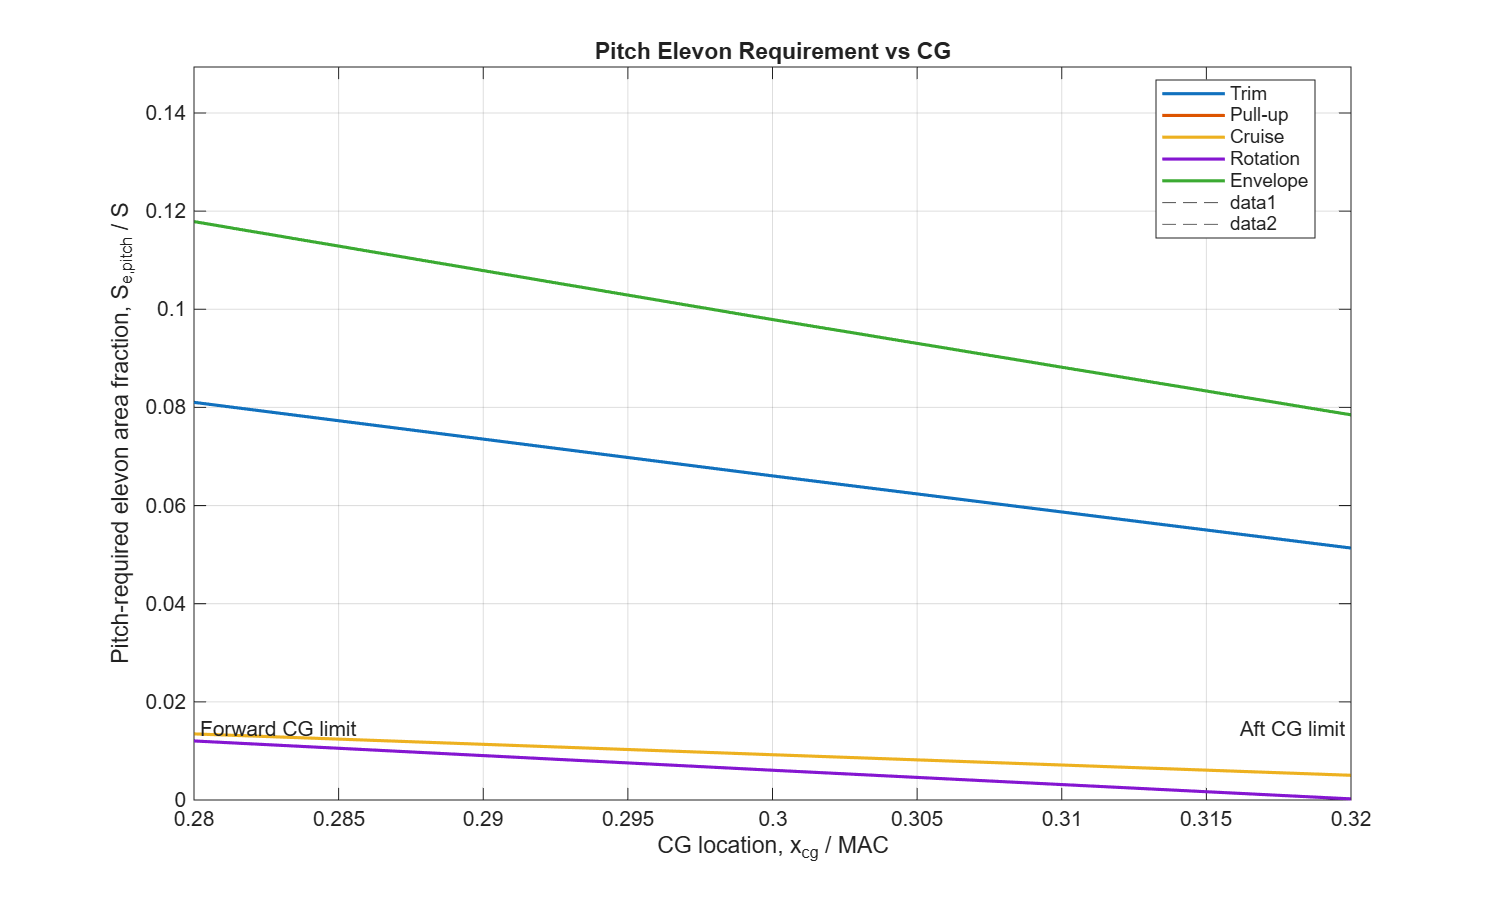
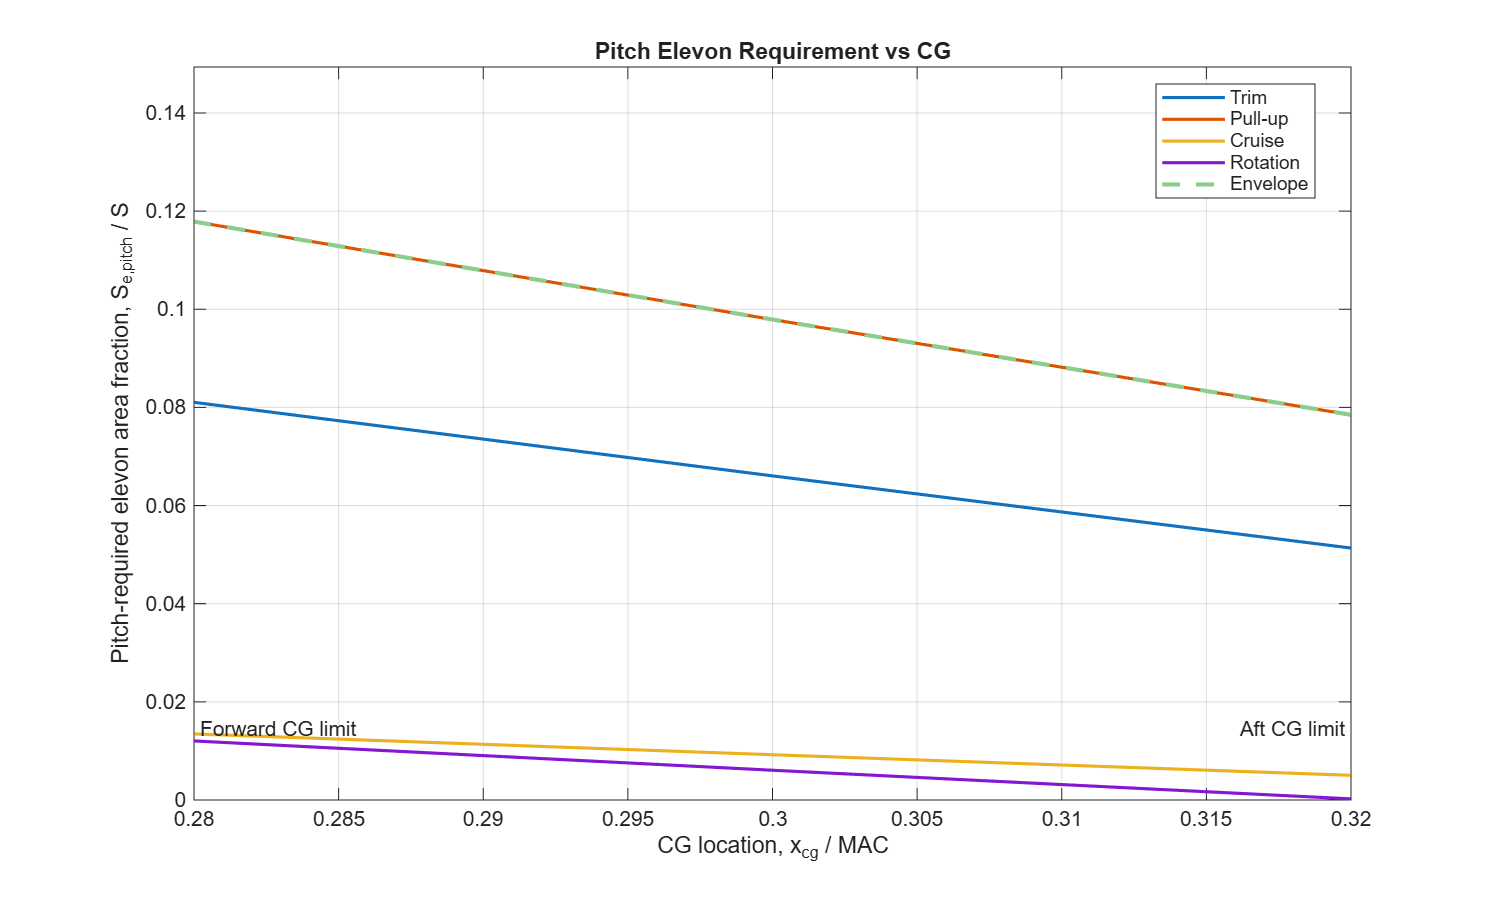
Clarify CG sweep envelope plot

diff --git a/+DynamicsPkg/BWB_Dynamics_Demo.m b/+DynamicsPkg/BWB_Dynamics_Demo.m
@@ -244,8 +244,10 @@ end
 figure;
 if RunCgSweep
     plot(CgSweep.XcgMAC, [CgSweep.PitchCaseSweep.Trim, CgSweep.PitchCaseSweep.Pullup, ...
-        CgSweep.PitchCaseSweep.Cruise, CgSweep.PitchCaseSweep.Rotation, ...
-        CgSweep.PitchCaseSweep.MaxAreaFraction], "LineWidth", 1.5);
+        CgSweep.PitchCaseSweep.Cruise, CgSweep.PitchCaseSweep.Rotation], "LineWidth", 1.5);
+    hold on
+    plot(CgSweep.XcgMAC, CgSweep.PitchCaseSweep.MaxAreaFraction, "--", ...
+        "Color", [0.55, 0.80, 0.55], "LineWidth", 2.0);
     legend(["Trim", "Pull-up", "Cruise", "Rotation", "Envelope"], "Location", "best");
 else
     plot(CgSweep.XcgMAC, CgSweep.PitchAreaFraction, "o", "MarkerSize", 8, "LineWidth", 1.5);
@@ -256,8 +258,8 @@ AreaLimit = max(0.06, 1.2 * max(CgSweep.PitchAreaFraction));
 ylim([0, AreaLimit]);
 ForwardCG = Aircraft.Specs.Dynamics.CG.ForwardMAC;
 AftCG = Aircraft.Specs.Dynamics.CG.AftMAC;
-xline(ForwardCG, "--");
-xline(AftCG, "--");
+xline(ForwardCG, "--", "HandleVisibility", "off");
+xline(AftCG, "--", "HandleVisibility", "off");
 LabelInset = 0.005 * (AftCG - ForwardCG);
 text(ForwardCG + LabelInset, 0.08 * AreaLimit, "Forward CG limit", ...
     "HorizontalAlignment", "left", "VerticalAlignment", "bottom");
